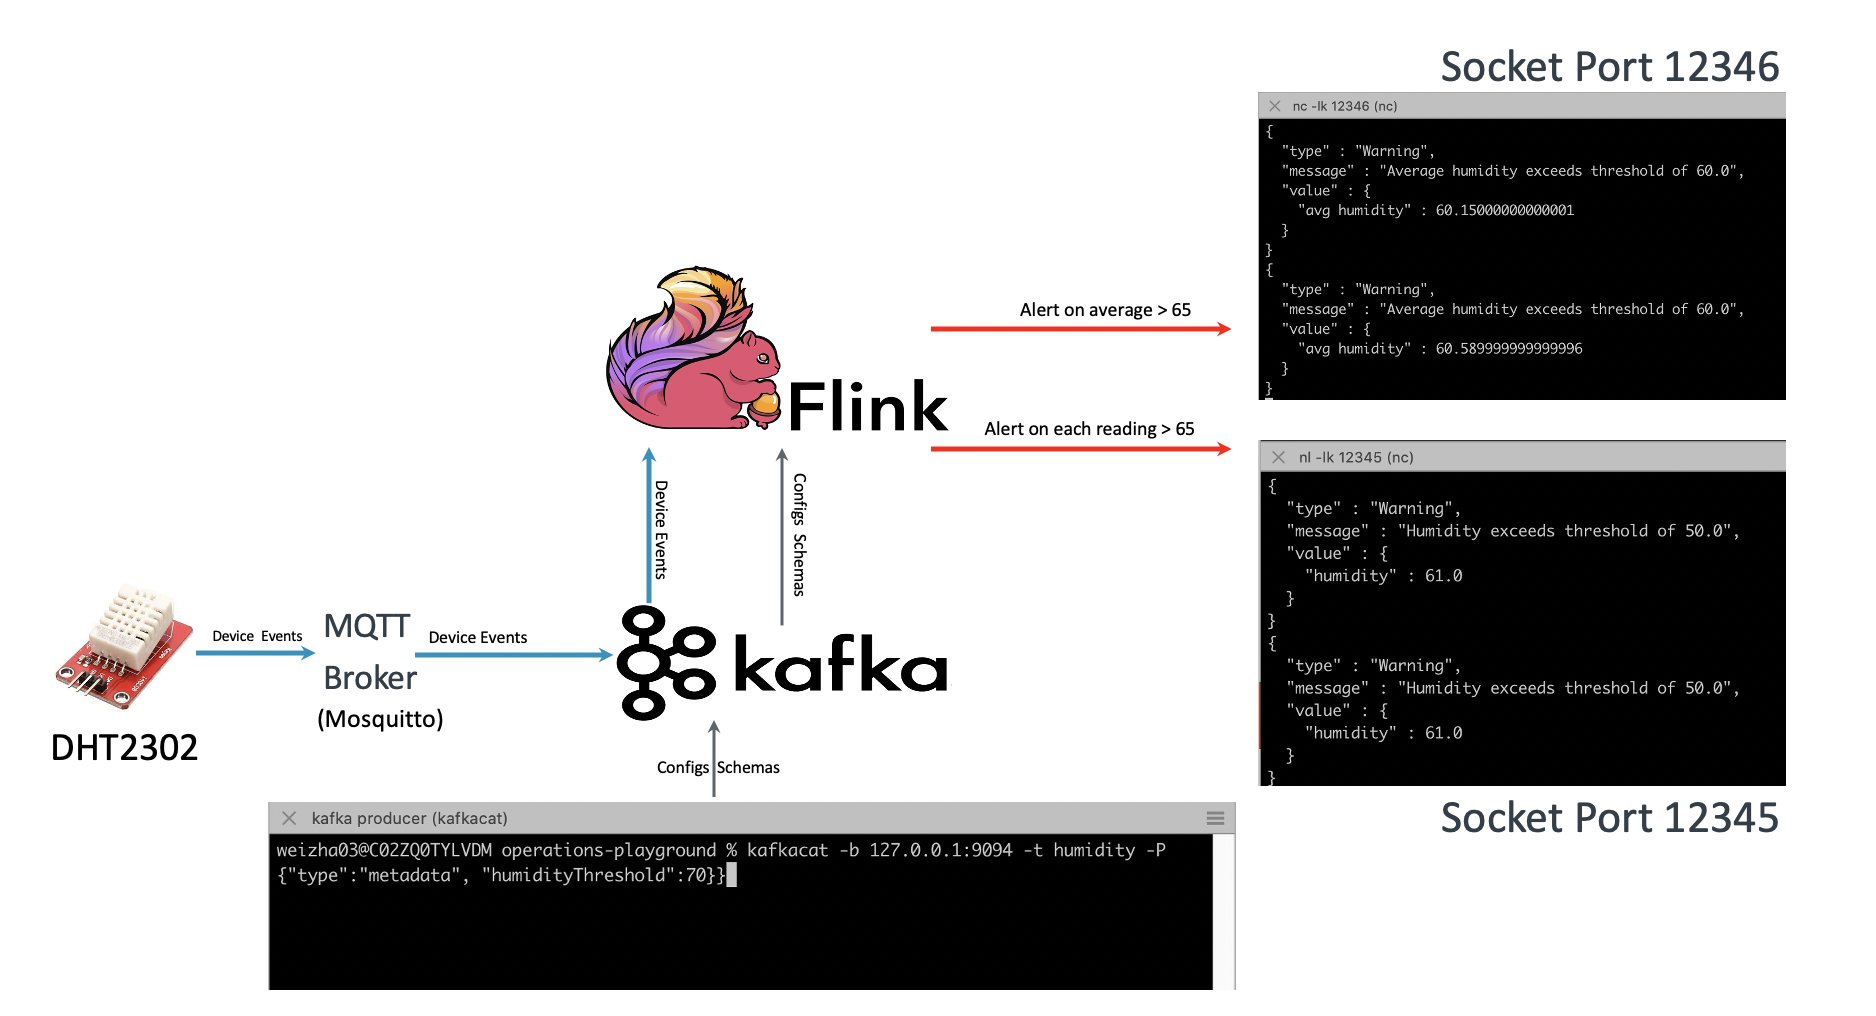
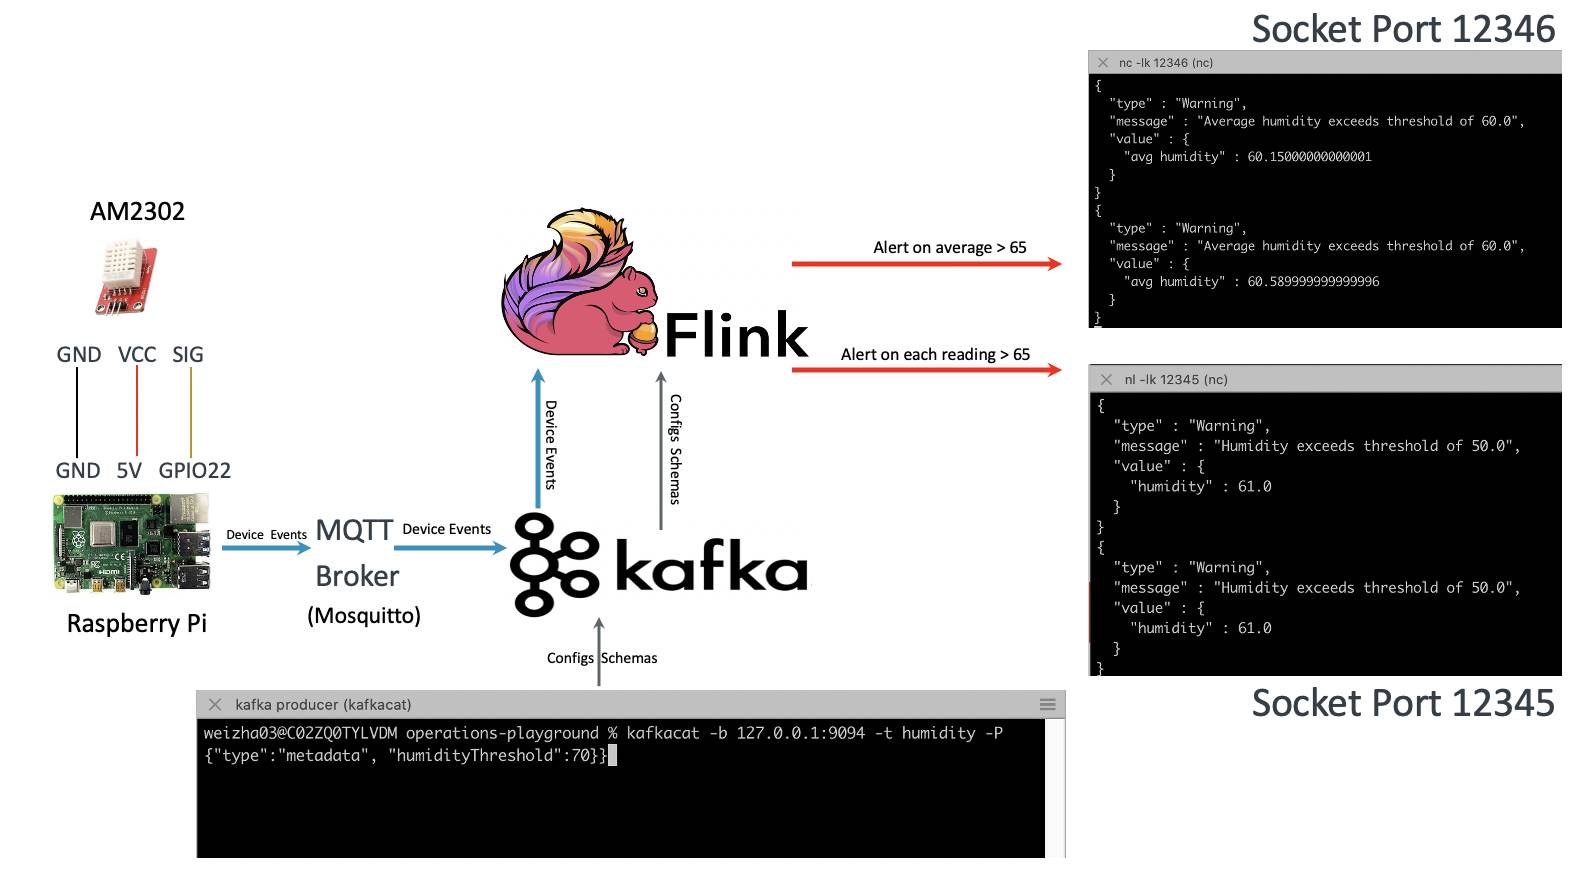
udated readme with details.

diff --git a/humidity-collection-on-pi/humidity-collection.py b/humidity-collection-on-pi/humidity-collection.py
@@ -2,7 +2,6 @@
 import time
 import atexit
 
-import pigpio
 import json
 import paho.mqtt.client as mqtt
 
@@ -12,7 +11,6 @@ def load_msg_template(file_path):
    try:
       with open(file_path) as f:
          msg_template = json.load(f)
-         #print(msg_template)
    except IOError:
       print("WARNING: Message Template File not accessible.")
 
@@ -21,14 +19,13 @@ def load_msg_template(file_path):
 ### Update mqtt endpoint message with humidity and temperature readings
 def update_mqtt_ep_msg(mqtt_msg_template, humidity, temperature):
     mqtt_msg_template["value"]["humidity"] = humidity
-    print(mqtt_msg_template)
 
 ### MQTT Topics ###
 EP_TOPIC = "humidity"
 
 ### MQTT callbacks ###
 def on_connect(client, userdata, flags, rc):
-    print("Connected with result code "+str(rc))
+    print("Connected to MQTT broker with result code "+str(rc))
 
 def on_message(client, userdata, msg):
     print(msg.topic+" "+str(msg.payload))
@@ -270,9 +267,29 @@ class sensor:
 
 if __name__ == "__main__":
 
+   import sys
    import time
    import pigpio
    import DHT22
+   import getopt
+
+   mqtt_host = "localhost"
+   mqtt_port = 1883
+   try:
+      opts, args = getopt.getopt(sys.argv[1:], 'h:p:', ['mqtthost', 'mqttport'])
+      if len(opts) != 2:
+         print ('usage: python humidity-collection.py -h <mqtt host> -p <mqtt port>')
+         sys.exit(-1)
+      else:
+         for opt, arg in opts:
+            if opt == '-h':
+               mqtt_host = arg
+            else:
+               mqtt_port= arg
+
+   except getopt.GetoptError:
+      print ('usage: python humidity-collection.py -h <mqtt host> -p <mqtt port>')
+      sys.exit(-1)
 
    # Intervals of about 2 seconds or less will eventually hang the DHT22.
    INTERVAL=3
@@ -280,15 +297,14 @@ if __name__ == "__main__":
    s = DHT22.sensor(pi, 22)
    r = 0
 
-   client = mqtt.Client()
-   client.on_connect = on_connect
-   client.on_message = on_message
-   client.connect("10.169.109.56", 1883, 60)
-   client.loop_start()
+   mqtt_client = mqtt.Client()
+   mqtt_client.on_connect = on_connect
+   mqtt_client.on_message = on_message
+   print("Connecting to mqtt server from {}:{}...".format(mqtt_host, mqtt_port))
+   mqtt_client.connect(mqtt_host, mqtt_port, 60)
+   mqtt_client.loop_start()
 
    mqtt_ep_msg = load_msg_template("humidity_msg.json")
-   print(mqtt_ep_msg)
-
    next_reading = time.time()
 
    while True:
@@ -301,10 +317,10 @@ if __name__ == "__main__":
          s.sensor_resets()))
       
       update_mqtt_ep_msg(mqtt_ep_msg, s.humidity(), s.temperature())
-      client.publish(EP_TOPIC, json.dumps(mqtt_ep_msg))
+      mqtt_client.publish(EP_TOPIC, json.dumps(mqtt_ep_msg))
       next_reading += INTERVAL
       time.sleep(next_reading-time.time())
-   client.loop_stop()
+   mqtt_client.loop_stop()
    s.cancel()
    pi.stop()
 

diff --git a/humidity-from-mqtt-to-kafka/humidity-from-mqtt-to-kafka.py b/humidity-from-mqtt-to-kafka/humidity-from-mqtt-to-kafka.py
@@ -46,14 +46,35 @@ def mqtt_on_message(client, userdata, msg):
     kafka_publish_message(global_producer, "humidity", msg.payload)
 
 def mqtt_on_connect(client, userdata, flags, rc):
-    print("Connected with result code "+str(rc))
+    print("Connected to MQTT broker with result code "+str(rc))
     client.subscribe("humidity")
 
 if __name__ == '__main__':
+    import getopt
+    import sys
+    mqtt_host = "localhost"
+    mqtt_port = 1883
+    try:
+        opts, args = getopt.getopt(sys.argv[1:], 'h:p:', ['mqtthost', 'mqttport'])
+        if len(opts) != 2:
+            print ('usage: python humidity-from-mqtt-to-kafka.py -h <mqtt host> -p <mqtt port>')
+            sys.exit(2)
+        else:
+            for opt, arg in opts:
+                if opt == '-h':
+                    mqtt_host = arg
+                else:
+                    mqtt_port= int(arg)
+
+    except getopt.GetoptError:
+        print ('usage: python humidity-from-mqtt-to-kafka.py -h <mqtt host> -p <mqtt port>')
+        sys.exit(-1)
+
     #### Setup MQTT
     client = mqtt.Client()
     client.on_connect = mqtt_on_connect
     client.on_message = mqtt_on_message
-    client.connect("10.169.109.56", 1883, 60)
+    print("Connecting to mqtt server from {}:{}...".format(mqtt_host, mqtt_port))
+    client.connect(mqtt_host, mqtt_port, 60)
     client.loop_forever()
 

diff --git a/README.md b/README.md
@@ -6,14 +6,65 @@ This is a demo that shows an event-driven processing pattern using open source p
 
 
 # Quick Start
-1. Start mosquitto server from local host (brew start mosquitto on MacOS);
-2. Start services including flink job manager, flink taskmanager, kafka, zookeeper and kafka;
-3. Start two terminal console, run *nc -lk 12345* and *nc -lk 12346* from each of them;
-4. Start mqtt client(a python script) on raspberry to collect humidity readings from the sensor;
-5. Start mqtt bridge(a python script) from localhost to pass the readings to kafka;
-6. Build the flink application and submit from flink dashboard(localhost:8081);
-7. Check warnings from the nc consoles;
-  
+1. Start mosquitto server from local host (brew start mosquitto on MacOS):
+   ```
+   brew start mosquitto
+   ```
+
+2. Start services including flink job manager, flink taskmanager, kafka, zookeeper and kafka:
+   ```
+   cd flink-playgrounds
+   docker-compose up
+   ```
+
+3. Start two terminal console, run a nc session from each of them with different ports:
+   ```
+   nc -lk 12345
+   nc -lk 12346
+   ```
+
+4. Setup Pi and the AM2302 sensor, see the connection diagram in the humidity-collection-on-pi/setup.png
+   ```
+   cd humidity-collection-on-pi
+   connect the sensor and the PI pins
+   ```
+
+5. Start mqtt client on raspberry to collect humidity readings from the sensor:
+   ```
+   scp humidity-collection.py root@[raspberry pi ip address]:~/
+   ssh humidity-collection.py root@[raspberry pi ip address]
+   python humidity-collection.py -h [ip address of your laptop] -p 1883
+   ```
+
+6. Start mqtt bridge to pass the readings to kafka:
+   ```
+   python humidity-from-mqtt-to-kafka.py -h localhost -p 1883
+   ```
+    
+7. Build the flink applications;
+   ```
+      cd humidity-monitoring-flink-app
+      mvn clean package
+   ```
+
+8. Submit apps from flink dashboard(localhost:8081);
+   ```
+   Start a browser and open localhost:8081;
+   Submit New Job -> Add New -> Select HumidityMonitoringApp-1.0-SNAPSHOT.jar;
+   Click the HumidityMonitoringApp-1.0-SNAPSHOT.jar under the Name column;
+   Input isg.HumidityMonitoring in the Entry Class input box;
+   ```
+
+9.  Repeat the steps above to submit the isg.AvgHumidityMonitoring app;
+    
+10. Check warnings from the nc consoles;
+    
+11. Update the threshold from a new terminal console:
+    ```
+    kafkacat -b 127.0.0.1:9094 -t humidity -P
+    {"type":"metadata", "humidityThreshold":70}}
+    ```
+
 
 # Folder Explained
 - flink-playgrounds  - A clone from https://github.com/apache/flink-playgrounds.git with minor modification. It's to startup flink local services including jobmanager and taskmanager. It also start up a kafka and a zookeeper services;
